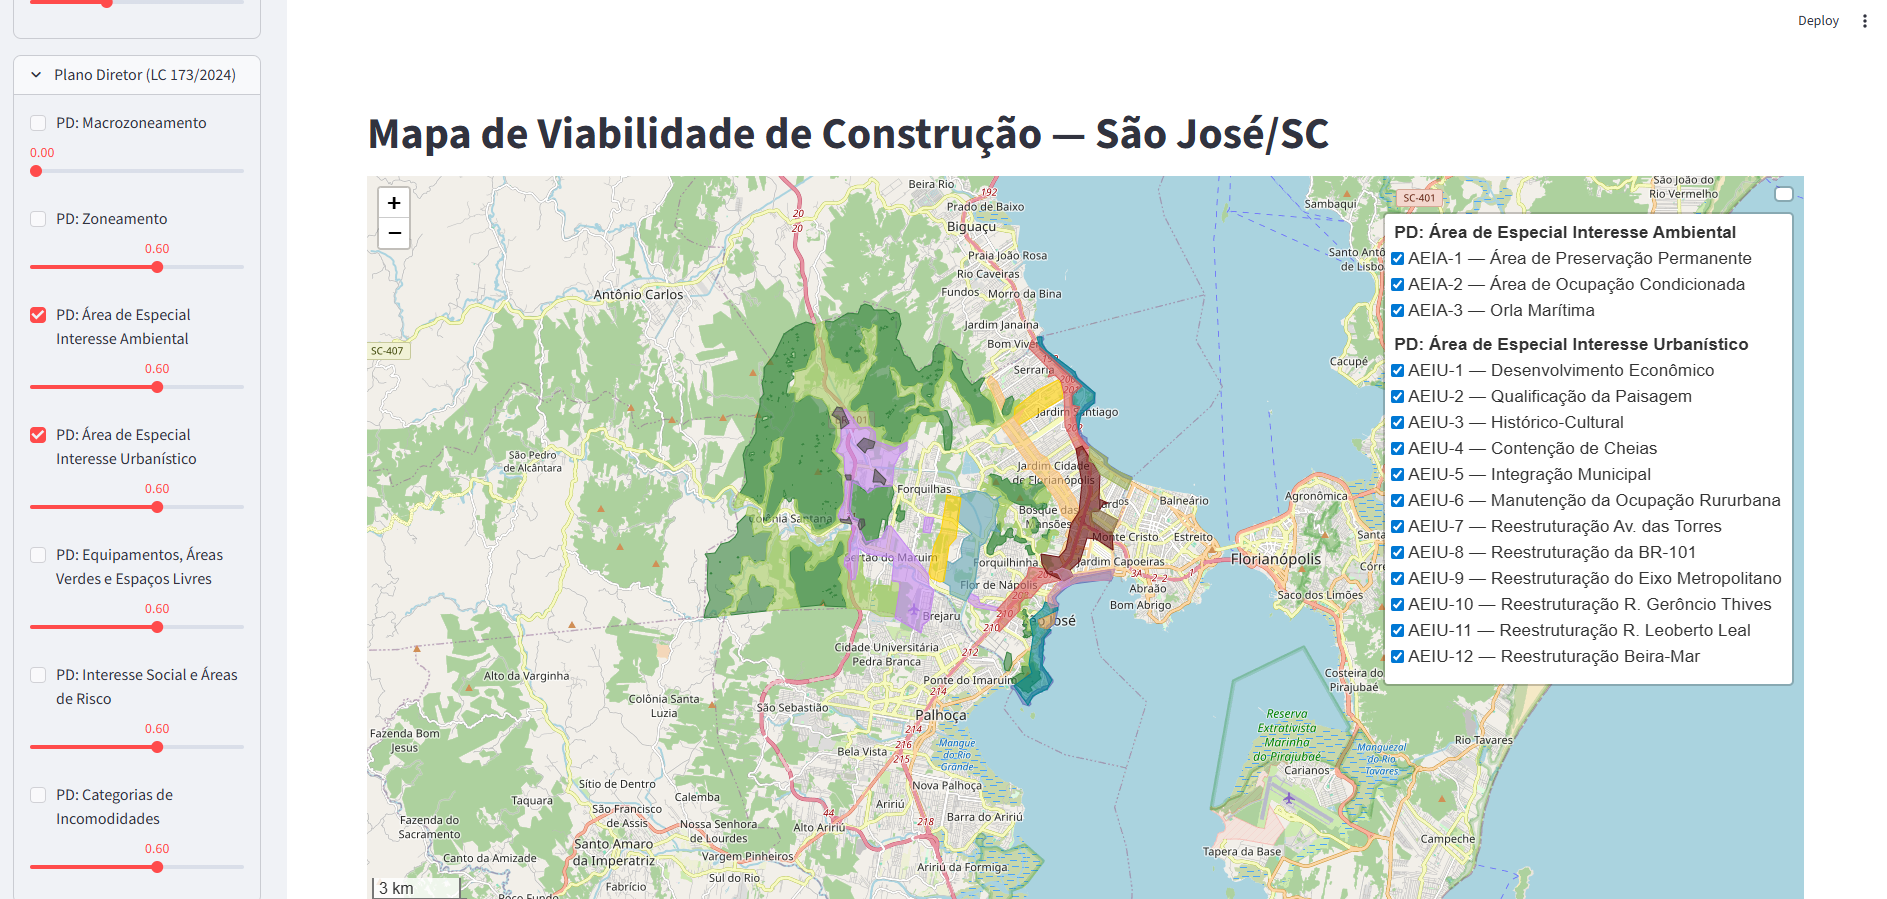
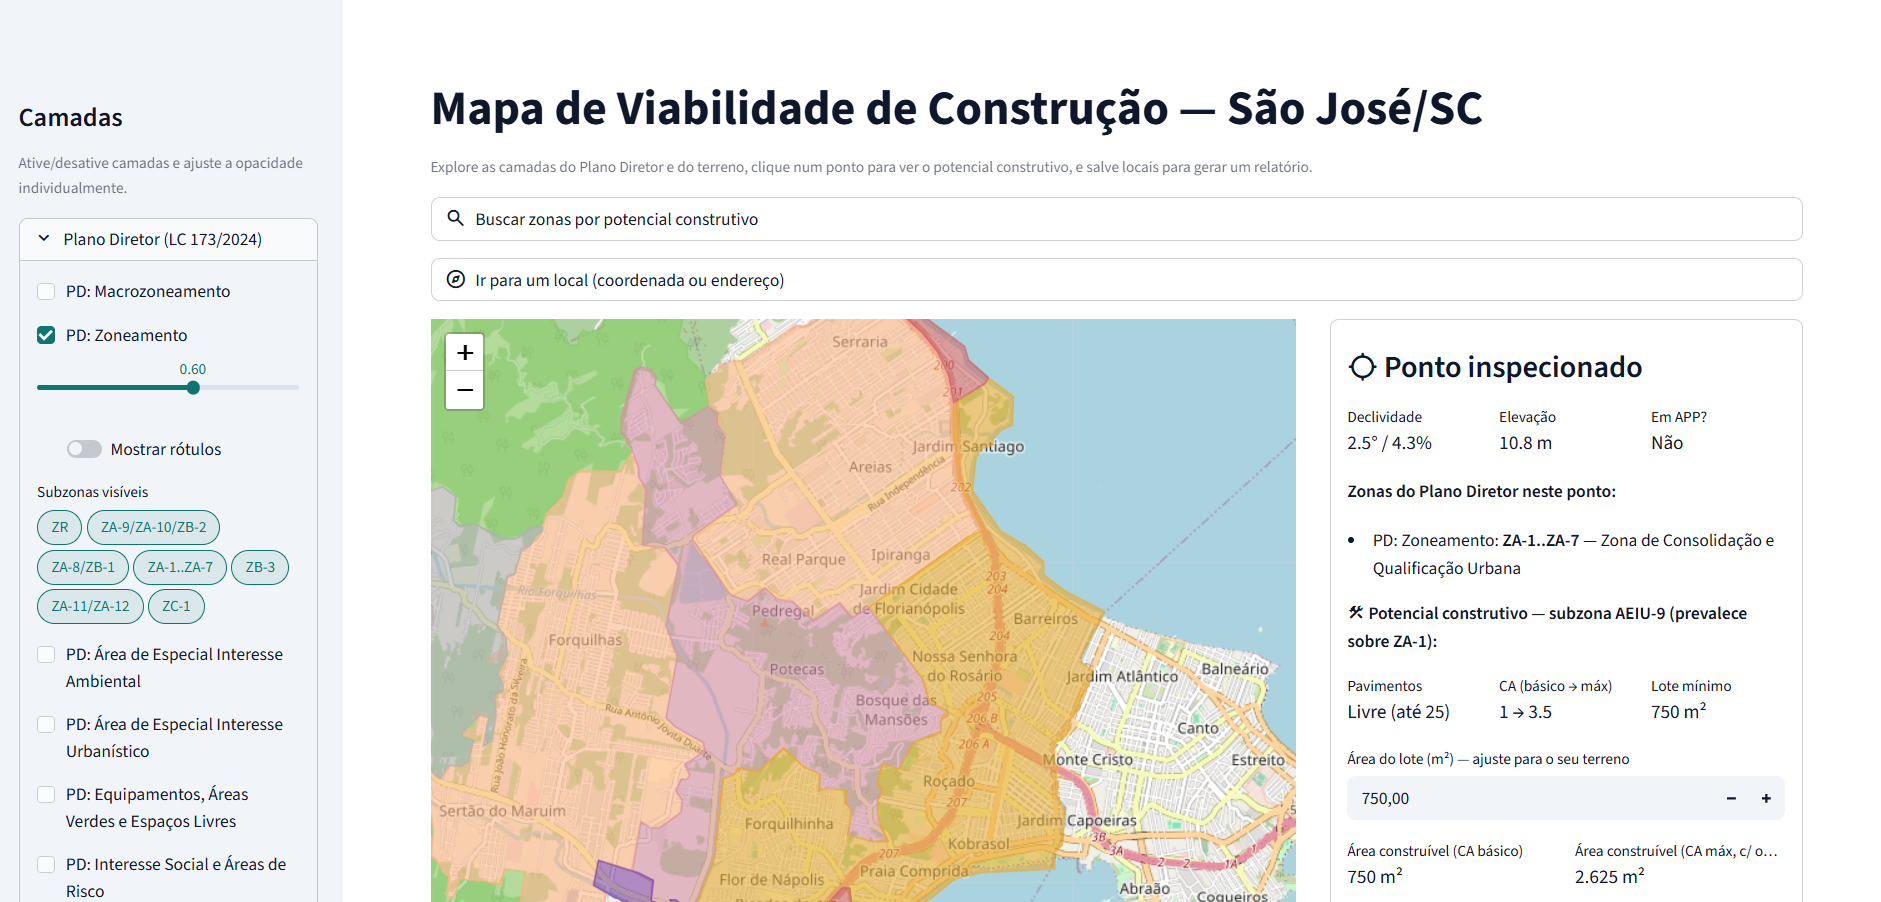
docs: recruiter-facing README with feature GIFs; refresh PROJECT_PLAN status

diff --git a/src/app/map_view.py b/src/app/map_view.py
@@ -20,7 +20,6 @@ from typing import Any
 
 import folium
 import geopandas as gpd
-from folium.plugins import GroupedLayerControl
 from folium.raster_layers import ImageOverlay
 
 
@@ -270,18 +269,8 @@ def build_map(
             b = highlight_gdf.total_bounds  # minx, miny, maxx, maxy
             fmap.fit_bounds([[b[1], b[0]], [b[3], b[2]]])
 
-    # The standard LayerControl handles non-grouped layers (rasters and
-    # ungrouped vectors). GroupedLayerControl adds the grouped sublayers
-    # below, with a heading per group.
-    folium.LayerControl(collapsed=False).add_to(fmap)    # The standard LayerControl handles non-grouped layers (rasters and
-    # ungrouped vectors). GroupedLayerControl adds the grouped sublayers
-    # below, with a heading per group.
-    folium.LayerControl(collapsed=False).add_to(fmap)
-    if groups:
-        GroupedLayerControl(
-            groups={name: subs for name, subs in groups.items()},
-            collapsed=False,
-            exclusive_groups=False,
-        ).add_to(fmap)
+    # No in-map LayerControl: layer visibility is driven entirely by the
+    # sidebar (toggling a layer reruns and rebuilds the map). Keeps the map
+    # clean (nothing covering it) and avoids the duplicate-control quirks.
 
     return fmap

diff --git a/README.md b/README.md
@@ -10,7 +10,7 @@
 
 ![São José/SC Master Plan zones rendered as interactive vector overlays on the OSM basemap](docs/example_map.png)
 
-*Example: Master Plan special-interest zones (LC 173/2024) of São José/SC, served as interactive vector overlays over the OpenStreetMap basemap.*
+*The app: Master Plan zones, terrain and environmental layers of São José/SC over an OpenStreetMap basemap, with click-to-inspect construction potential.*
 
 ## Objective
 
@@ -22,11 +22,30 @@ The goal is an interactive map that communicates construction viability across a
 
 The architecture is **modular per municipality**: new cities can be added without touching the core code.
 
+## Features in action
+
+**Click-to-inspect** — slope, elevation, APP, zoning and construction potential (floors, CA, buildable area and a viability verdict) at any point.
+
+![Click to inspect a point](docs/demo_inspect.gif)
+
+**Search zones by buildable criteria** — filter by minimum floors / CA and highlight the matching zones on the map.
+
+![Search zones by potential](docs/demo_search.gif)
+
+**Go to a coordinate or address** — geocode a location, jump the map there with a marker, and inspect it.
+
+![Navigate to a location](docs/demo_navigate.gif)
+
+**Saved-points history + PDF report** — collect inspected points and export a per-point report with map thumbnails.
+
+![Saved points and PDF report](docs/demo_report.gif)
+
+
 ## Deliverables
 
 - A geospatial pipeline: **ingest** (IBGE, OSM, Topodata) → **transform** (slope raster, APP buffers, automated Master Plan vectorization) → **publish** as interactive layers.
 - Master Plan PDF annexes turned into **vector polygon layers** (GeoParquet) via HSV color segmentation — no manual digitizing.
-- A **Streamlit + Folium** app with a permanent OSM basemap, per-layer opacity and per-zone toggles, **click-to-inspect** (slope, elevation, APP, zoning and **construction potential** at any clicked point), a **slope-threshold highlight** filter, **search zones by buildable criteria** (floors/CA), and OCR-extracted zone-code labels as an optional layer.- A **Streamlit + Folium** app with a permanent OSM basemap, per-layer opacity and per-zone toggles, **click-to-inspect** (slope, elevation, APP and zoning at any clicked point), a **slope-threshold highlight** filter, and OCR-extracted zone-code labels as an optional layer.
+- A **Streamlit + Folium** app with a permanent OSM basemap, per-layer opacity and per-zone toggles, **click-to-inspect** (slope, elevation, APP, zoning and **construction potential** at any clicked point), a **slope-threshold highlight** filter, **search zones by buildable criteria** (floors/CA), go-to-**coordinate/address** navigation, and a **saved-points history with a downloadable PDF report**.
 - A reusable **Adapter Pattern** so a second municipality plugs in without refactoring the core.
 
 ### Pilot city
@@ -95,7 +114,7 @@ See [`CONTRIBUTING.md`](./CONTRIBUTING.md) (coming soon).
 ## Known limitations
 
 - **Lots**: São José/SC has no public cadastral dataset. This project uses OpenStreetMap building footprints + synthetic blocks as a proxy. **It is not a substitute for official municipal records.**
-- **Zoning**: Master Plan maps are automatically vectorized via HSV color segmentation of the official PDF annexes (LC 173/2024). Subzones that share a single legend color merge into one polygon, so the exact subzone behind the **construction-potential** lookup comes from a hand-digitized boundary layer (17 subzones traced over the georeferenced official map in QGIS) resolved by point-in-polygon; OCR (EasyOCR) zone-code labels remain as an optional display layer.- **Zoning**: Master Plan maps are automatically vectorized via HSV color segmentation of the official PDF annexes (LC 173/2024). Subzones that share a single legend color are merged into one polygon; per-subzone zone codes are recovered separately via OCR (EasyOCR) and shown as an optional label layer.
+- **Zoning**: Master Plan maps are automatically vectorized via HSV color segmentation of the official PDF annexes (LC 173/2024). Subzones that share a single legend color merge into one polygon, so the exact subzone behind the **construction-potential** lookup comes from a hand-digitized boundary layer (17 subzones traced over the georeferenced official map in QGIS) resolved by point-in-polygon; OCR (EasyOCR) zone-code labels remain as an optional display layer.
 - **DEM**: uses Topodata from INPE (~30 m resolution), adequate for municipal-level analysis but coarse for intra-block analysis.
 
 ## Disclaimer

diff --git a/PROJECT_PLAN.md b/PROJECT_PLAN.md
@@ -2,7 +2,7 @@
 
 > Master planning document. Describes the current architecture, scope, and roadmap. Reference point for resuming work in future sessions.
 
-**Last updated:** 2026-06-08
+**Last updated:** 2026-07-19 · **Status:** live for São José/SC — full pipeline, interactive app, click-inspect + construction potential, saved-points history & PDF report. [Live demo](https://construction-viability-map.streamlit.app)
 
 ---
 
@@ -29,7 +29,7 @@ Build an interactive map that helps users visually understand construction viabi
 | Viability model | Independent toggleable layers + lightweight thresholds | User adjusts opacity, toggles layers on/off, applies simple filters (e.g. "highlight slope > 30%") |
 | Stack | Python + Streamlit + Folium | Dynamic UI, integrated Leaflet, free deploy on Streamlit Cloud |
 | Architecture | Multi-municipality via Adapter Pattern | New cities plug in without changing the core |
-| Static asset serving | FastAPI sidecar on localhost (daemon thread) | Streamlit's websocket payload limit (200 MB) is too small for inline base64; serving PNGs/GeoJSONs via HTTP lets us scale to the full set of Master Plan maps |
+| Static asset serving | Raster PNGs base64-embedded into the Folium map (no sidecar) | The earlier localhost FastAPI sidecar was removed for the Streamlit Cloud deploy — embedding keeps the app self-contained, with no extra process or absolute paths |
 | Dependencies | pip + venv + requirements.txt | Absolute simplicity, no extra tooling |
 | Repository | Public GitHub | Portfolio + supports open-source contribution |
 | Master Plan (PDFs) | **Automated vectorization via color segmentation** — the in-scope maps become vector polygon layers; raster PNGs are deprecated as an end-user artifact | The PDFs are vector containers with one embedded JPEG per map and a vector legend with exact RGB colors. Segmenting that JPEG by HSV-distance to legend colors yields clean polygons. This replaces the planned manual QGIS work entirely. |
